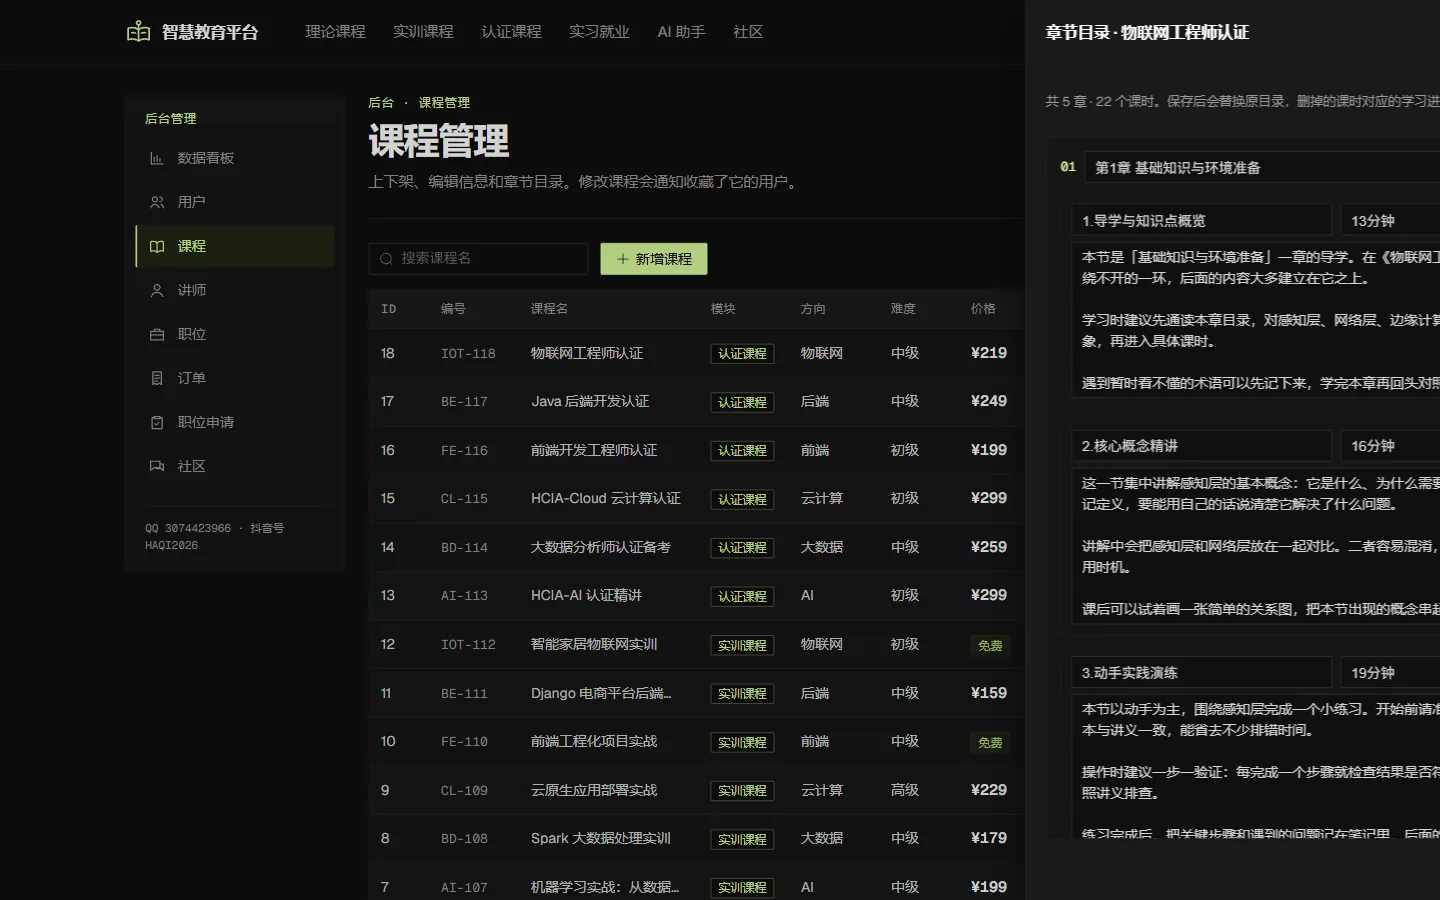
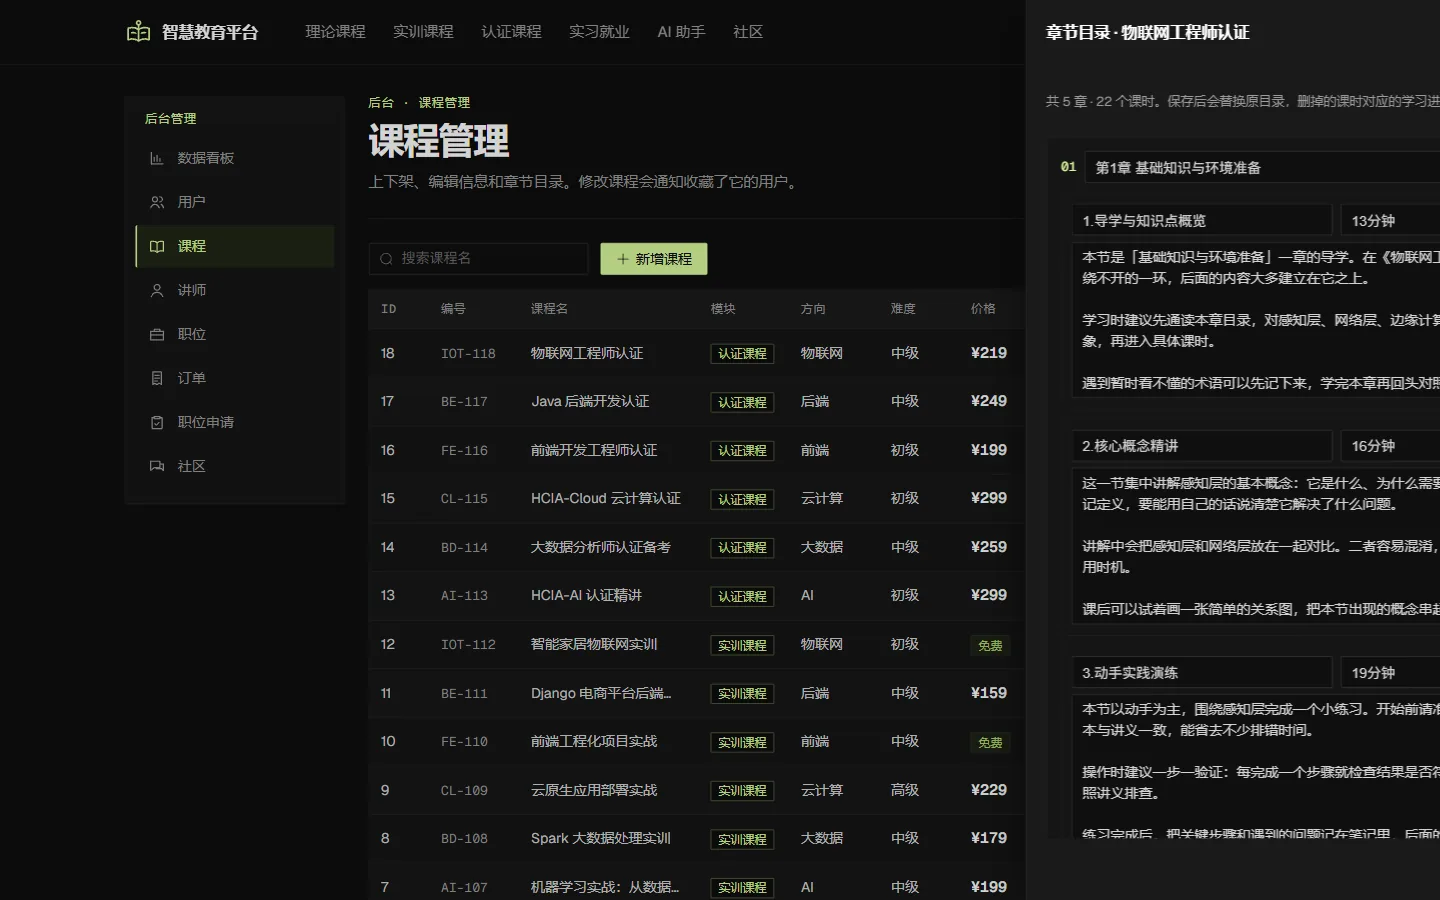
Remove author contact line from pages and README

diff --git a/frontend/src/views/auth/AuthView.vue b/frontend/src/views/auth/AuthView.vue
@@ -24,7 +24,6 @@
             </li>
           </ul>
         </div>
-        <p class="author-line desktop-only">QQ 3074423966 · 抖音号 HAQI2026</p>
       </section>
 
       <section class="form-panel">
@@ -144,7 +143,6 @@
             <span class="text-sub">想起来了？<el-link type="primary" :underline="false" @click="go('login')">去登录</el-link></span>
           </div>
         </el-form>
-        <p class="author-line mobile-only m-author">QQ 3074423966 · 抖音号 HAQI2026</p>
       </section>
     </div>
   </div>
@@ -433,10 +431,6 @@ async function doReset() {
   letter-spacing: 0.08em;
 }
 
-.m-author {
-  margin-top: 24px;
-  text-align: center;
-}
 
 @media (max-width: 860px) {
   .auth-box {

diff --git a/frontend/src/views/admin/AdminLayout.vue b/frontend/src/views/admin/AdminLayout.vue
@@ -8,7 +8,6 @@
             <AppIcon :name="m.icon" :size="17" /><span>{{ m.label }}</span>
           </router-link>
         </nav>
-        <p class="aside-foot mono">QQ 3074423966 · 抖音号 HAQI2026</p>
       </aside>
 
       <div class="admin-main">
@@ -82,13 +81,6 @@ const menu = [
   border-left-color: var(--accent);
 }
 
-.aside-foot {
-  margin: 18px 10px 0;
-  padding-top: 14px;
-  border-top: 1px solid var(--line);
-  font-size: 11px;
-  color: var(--muted);
-}
 
 .admin-main {
   min-width: 0;
@@ -110,9 +102,6 @@ const menu = [
   }
 
   .aside-title,
-  .aside-foot {
-    display: none;
-  }
 
   .admin-nav {
     flex-direction: row;

diff --git a/frontend/src/layout/MainLayout.vue b/frontend/src/layout/MainLayout.vue
@@ -66,7 +66,6 @@
             <span>退出登录</span>
           </button>
         </nav>
-        <p class="author-line m-author">QQ 3074423966 · 抖音号 HAQI2026</p>
       </div>
     </transition>
 
@@ -77,7 +76,6 @@
     <footer class="foot">
       <div class="foot-in">
         <span>智慧教育平台 · 华为 ICT 学院课程项目</span>
-        <span class="author-line">QQ 3074423966 · 抖音号 HAQI2026</span>
       </div>
     </footer>
   </div>
@@ -344,10 +342,6 @@ watch(
   color: var(--muted);
 }
 
-.m-author {
-  margin-top: auto;
-  padding: 16px 12px 8px;
-}
 
 .mnav-enter-active,
 .mnav-leave-active {

diff --git a/frontend/src/styles/index.css b/frontend/src/styles/index.css
@@ -564,10 +564,6 @@ button {
   border-bottom: none;
 }
 
-.author-line {
-  color: var(--muted);
-  font: 400 12px var(--mono);
-}
 
 /* ========== Element Plus 细节 ========== */
 .el-button {

diff --git a/README.md b/README.md
@@ -321,10 +321,6 @@ python -m pytest tests -q
   </tr>
 </table>
 
-## 作者
-
-QQ 3074423966 · 抖音号 HAQI2026
-
 ## 许可证
 
 [MIT](LICENSE)
